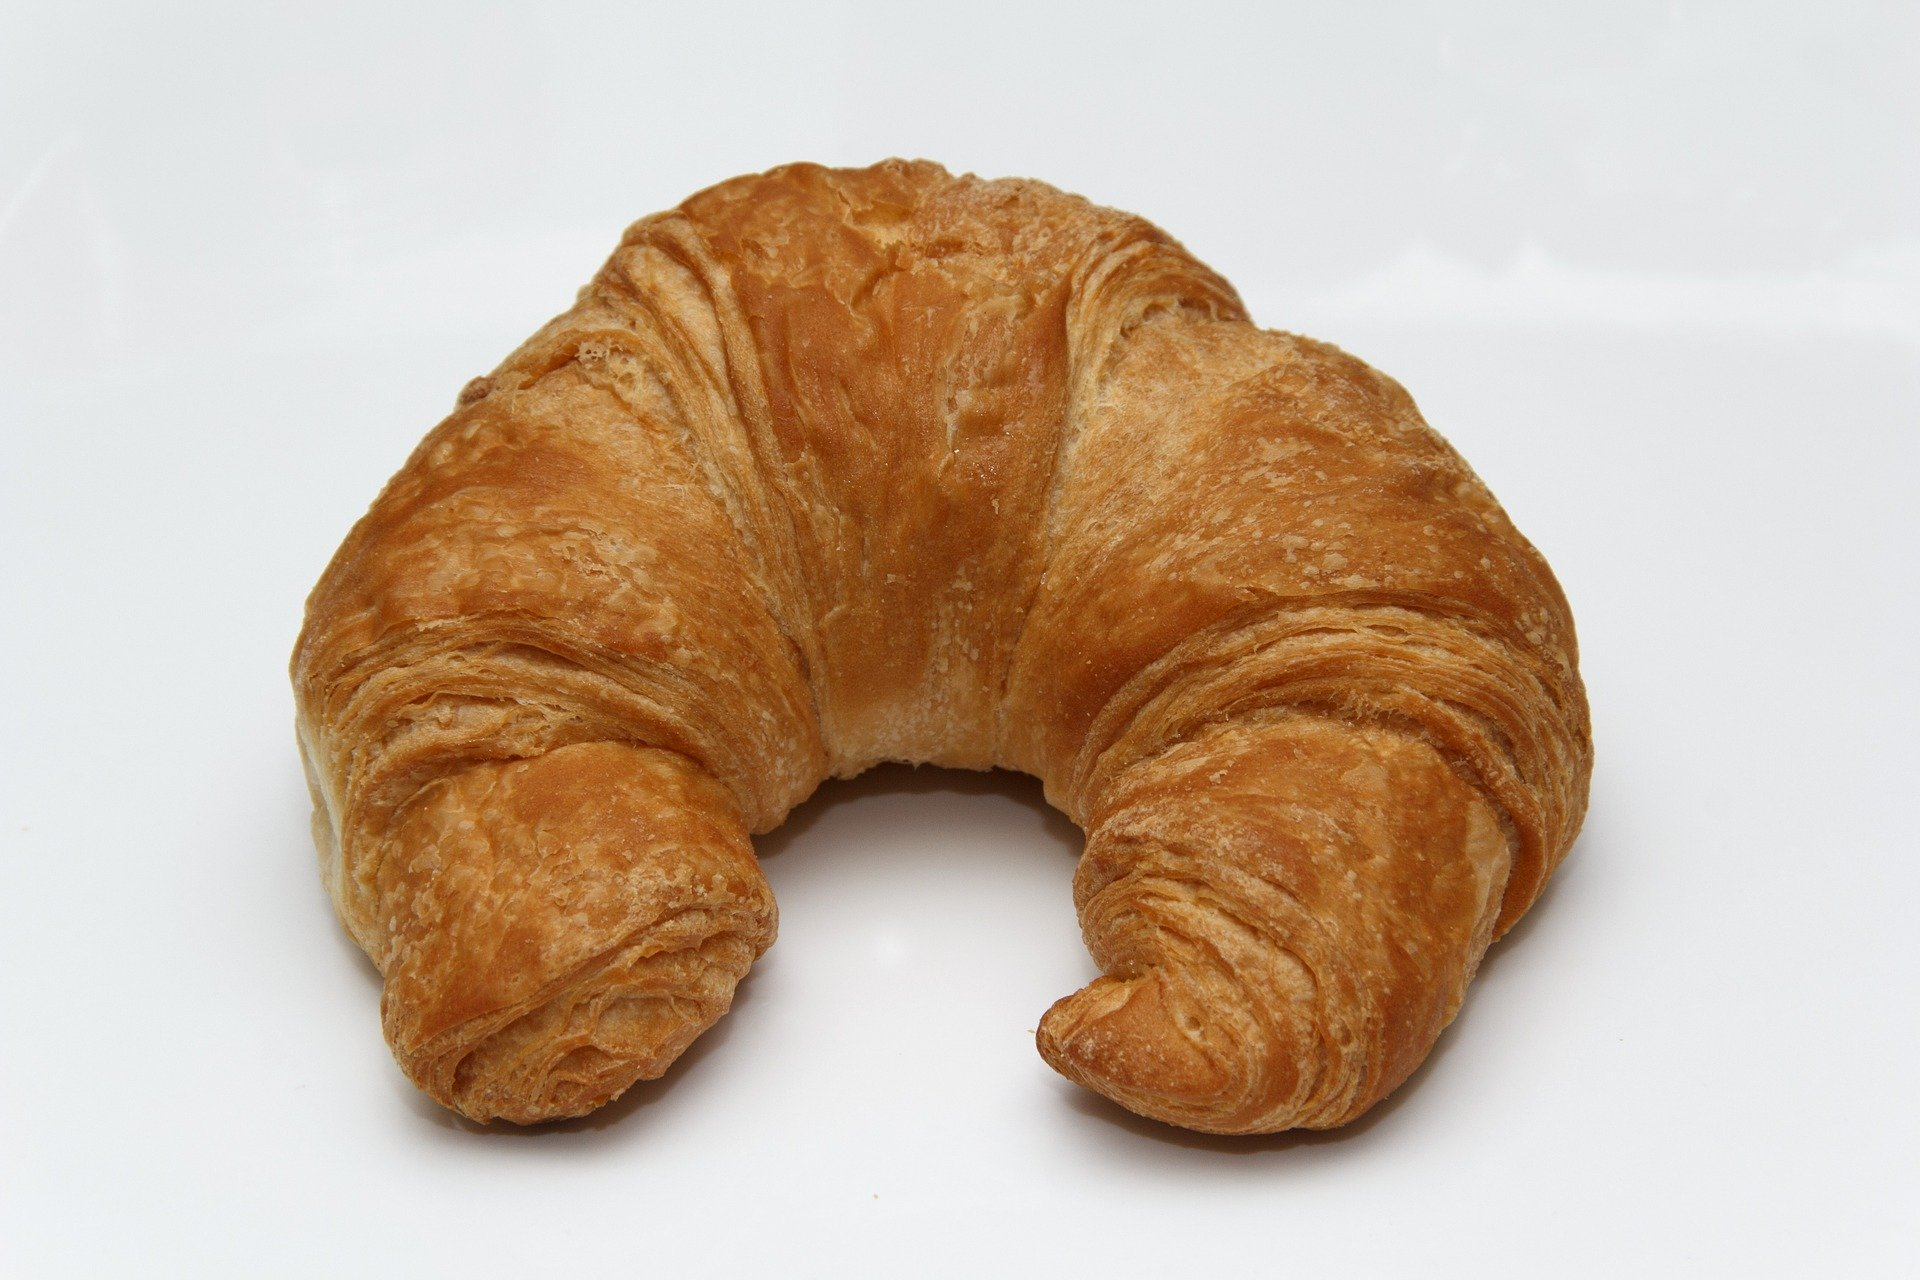
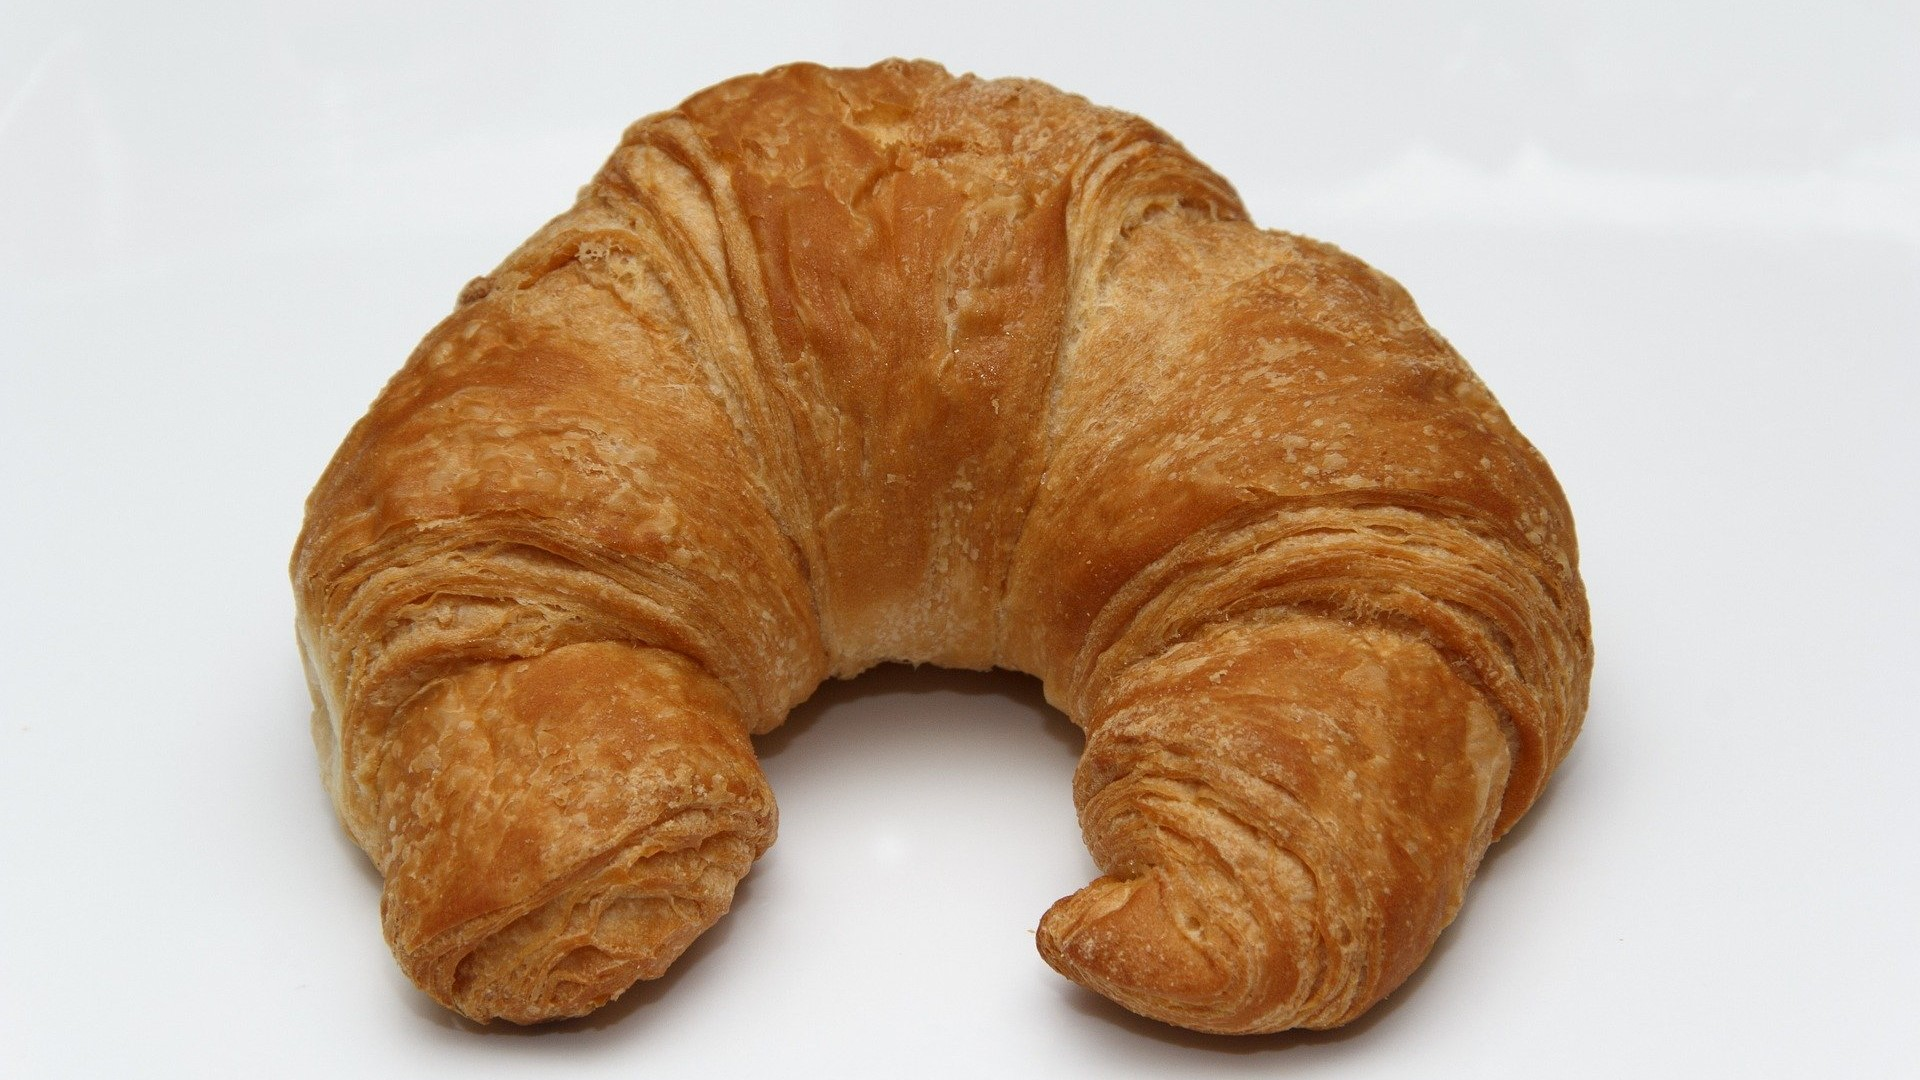
img sizing and final styling

Changed region(s): [[0.1562, 0.0306, 0.8438, 1.0]]

diff --git a/index.html b/index.html
@@ -5,21 +5,27 @@
     <meta http-equiv="X-UA-Compatible" content="IE=edge" />
     <meta name="viewport" content="width=device-width, initial-scale=1.0" />
     <title>Croissant</title>
+    <link
+      href="https://cdn.jsdelivr.net/npm/bootstrap@5.0.2/dist/css/bootstrap.min.css"
+      rel="stylesheet"
+      integrity="sha384-EVSTQN3/azprG1Anm3QDgpJLIm9Nao0Yz1ztcQTwFspd3yD65VohhpuuCOmLASjC"
+      crossorigin="anonymous"
+    />
     <link rel="stylesheet" href="/src/style.css" />
   </head>
   <body>
     <h1>🥐 The Croissant Page 🥐</h1>
     <p>
-      This is an interesting text about croissants This is an interesting text
-      about croissants This is an interesting text about croissants This is an
+      This is an interesting text about croissants This is a very interesting
+      text about croissants This is an amazing text about amazing croissants
+      This is an interesting text about amazing croissants This is a very
+      amazing and interesting text about delicious croissants This is an
       interesting text about croissants This is an interesting text about
-      croissants This is an interesting text about croissants This is an
-      interesting text about croissants This is an interesting text about
-      croissants This is an interesting text about croissants This is an
-      interesting text about croissants This is an interesting text about
+      amazing croissants This is an interesting text about the very best
       croissants
     </p>
-    <a href="/photo.html">How a Croissant looks like</a>
+    <a href="/photo.html">>>How a Croissant looks like<<</a>
+    <br />
     <a href="/contact.html">Contact me</a>
   </body>
 </html>

diff --git a/contact.html b/contact.html
@@ -5,6 +5,12 @@
     <meta http-equiv="X-UA-Compatible" content="IE=edge" />
     <meta name="viewport" content="width=device-width, initial-scale=1.0" />
     <title>Contact me</title>
+    <link
+      href="https://cdn.jsdelivr.net/npm/bootstrap@5.0.2/dist/css/bootstrap.min.css"
+      rel="stylesheet"
+      integrity="sha384-EVSTQN3/azprG1Anm3QDgpJLIm9Nao0Yz1ztcQTwFspd3yD65VohhpuuCOmLASjC"
+      crossorigin="anonymous"
+    />
     <link rel="stylesheet" href="/src/style.css" />
   </head>
   <body>
@@ -15,6 +21,7 @@
       <li>Tout le Monde</li>
     </ul>
     <a href="/photo.html">Photo Gallery</a>
+    <br />
     <a href="/">Back to Homepage</a>
   </body>
 </html>

diff --git a/src/style.css b/src/style.css
@@ -19,6 +19,7 @@ ul {
 }
 
 a {
+  font-size: 17px;
   display: block;
   text-align: center;
   color: brown;
@@ -27,11 +28,6 @@ a {
 ul {
   list-style: none;
   text-align: center;
-}
-
-.photos {
-  background-color: chartreuse;
-  padding: 200px;
 }
 
 img {

diff --git a/photo.html b/photo.html
@@ -34,6 +34,7 @@
       </div>
     </div>
     <a href="/contact.html">Contact me</a>
-    <a href="/">Back to Homepage</a>
+    <br />
+    <a href="/" class="mb-5">Back to Homepage</a>
   </body>
 </html>
